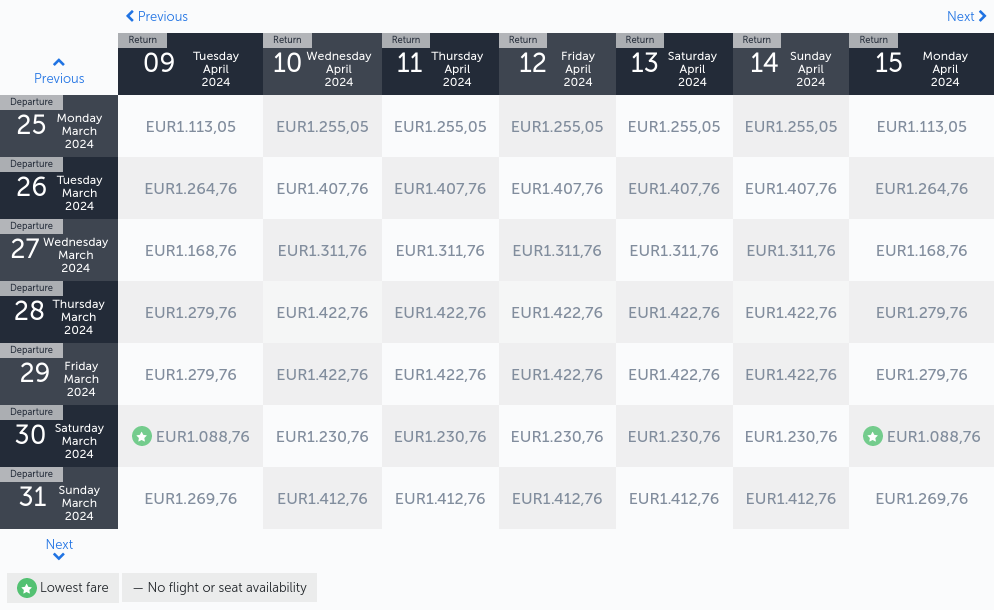
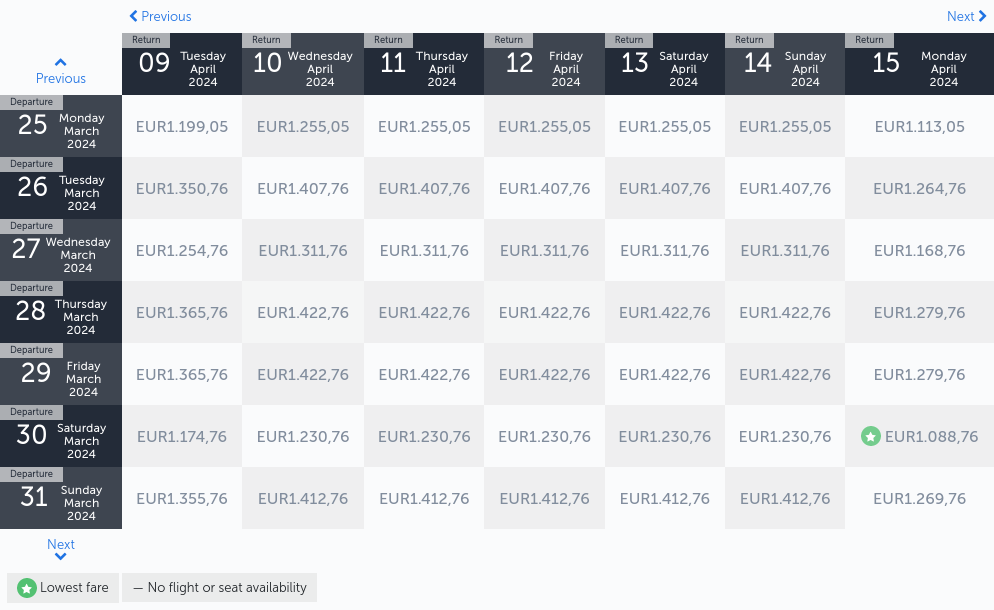
Latest scraping taiwan: Fri Jul 21 16:41:20 UTC 2023

diff --git a/scrapes/taiwan/turkish-airlines.md b/scrapes/taiwan/turkish-airlines.md
@@ -2,13 +2,13 @@
 | --- | --- |     |     |     |     |     |     | --- | --- | --- | --- | --- | --- |
 | Previous | Return<br><br>09 Tuesday April 2024 | Return<br><br>10 Wednesday April 2024 | Return<br><br>11 Thursday April 2024 | Return<br><br>12 Friday April 2024 | Return<br><br>13 Saturday April 2024 | Return<br><br>14 Sunday April 2024 | Return<br><br>15 Monday April 2024 |
 | --- | --- | --- | --- | --- | --- | --- | --- |
-| Departure<br><br>25 Monday March 2024 | 1.113,05 | 1.255,05 | 1.255,05 | 1.255,05 | 1.255,05 | 1.255,05 | 1.113,05 |
-| Departure<br><br>26 Tuesday March 2024 | 1.264,76 | 1.407,76 | 1.407,76 | 1.407,76 | 1.407,76 | 1.407,76 | 1.264,76 |
-| Departure<br><br>27 Wednesday March 2024 | 1.168,76 | 1.311,76 | 1.311,76 | 1.311,76 | 1.311,76 | 1.311,76 | 1.168,76 |
-| Departure<br><br>28 Thursday March 2024 | 1.279,76 | 1.422,76 | 1.422,76 | 1.422,76 | 1.422,76 | 1.422,76 | 1.279,76 |
-| Departure<br><br>29 Friday March 2024 | 1.279,76 | 1.422,76 | 1.422,76 | 1.422,76 | 1.422,76 | 1.422,76 | 1.279,76 |
-| Departure<br><br>30 Saturday March 2024 | 1.088,76 | 1.230,76 | 1.230,76 | 1.230,76 | 1.230,76 | 1.230,76 | 1.088,76 |
-| Departure<br><br>31 Sunday March 2024 | 1.269,76 | 1.412,76 | 1.412,76 | 1.412,76 | 1.412,76 | 1.412,76 | 1.269,76 |
+| Departure<br><br>25 Monday March 2024 | 1.199,05 | 1.255,05 | 1.255,05 | 1.255,05 | 1.255,05 | 1.255,05 | 1.113,05 |
+| Departure<br><br>26 Tuesday March 2024 | 1.350,76 | 1.407,76 | 1.407,76 | 1.407,76 | 1.407,76 | 1.407,76 | 1.264,76 |
+| Departure<br><br>27 Wednesday March 2024 | 1.254,76 | 1.311,76 | 1.311,76 | 1.311,76 | 1.311,76 | 1.311,76 | 1.168,76 |
+| Departure<br><br>28 Thursday March 2024 | 1.365,76 | 1.422,76 | 1.422,76 | 1.422,76 | 1.422,76 | 1.422,76 | 1.279,76 |
+| Departure<br><br>29 Friday March 2024 | 1.365,76 | 1.422,76 | 1.422,76 | 1.422,76 | 1.422,76 | 1.422,76 | 1.279,76 |
+| Departure<br><br>30 Saturday March 2024 | 1.174,76 | 1.230,76 | 1.230,76 | 1.230,76 | 1.230,76 | 1.230,76 | 1.088,76 |
+| Departure<br><br>31 Sunday March 2024 | 1.355,76 | 1.412,76 | 1.412,76 | 1.412,76 | 1.412,76 | 1.412,76 | 1.269,76 |
 | Next |
 | Lowest fare — No flight or seat availability |     |     |     |     |     |     |     |
 
